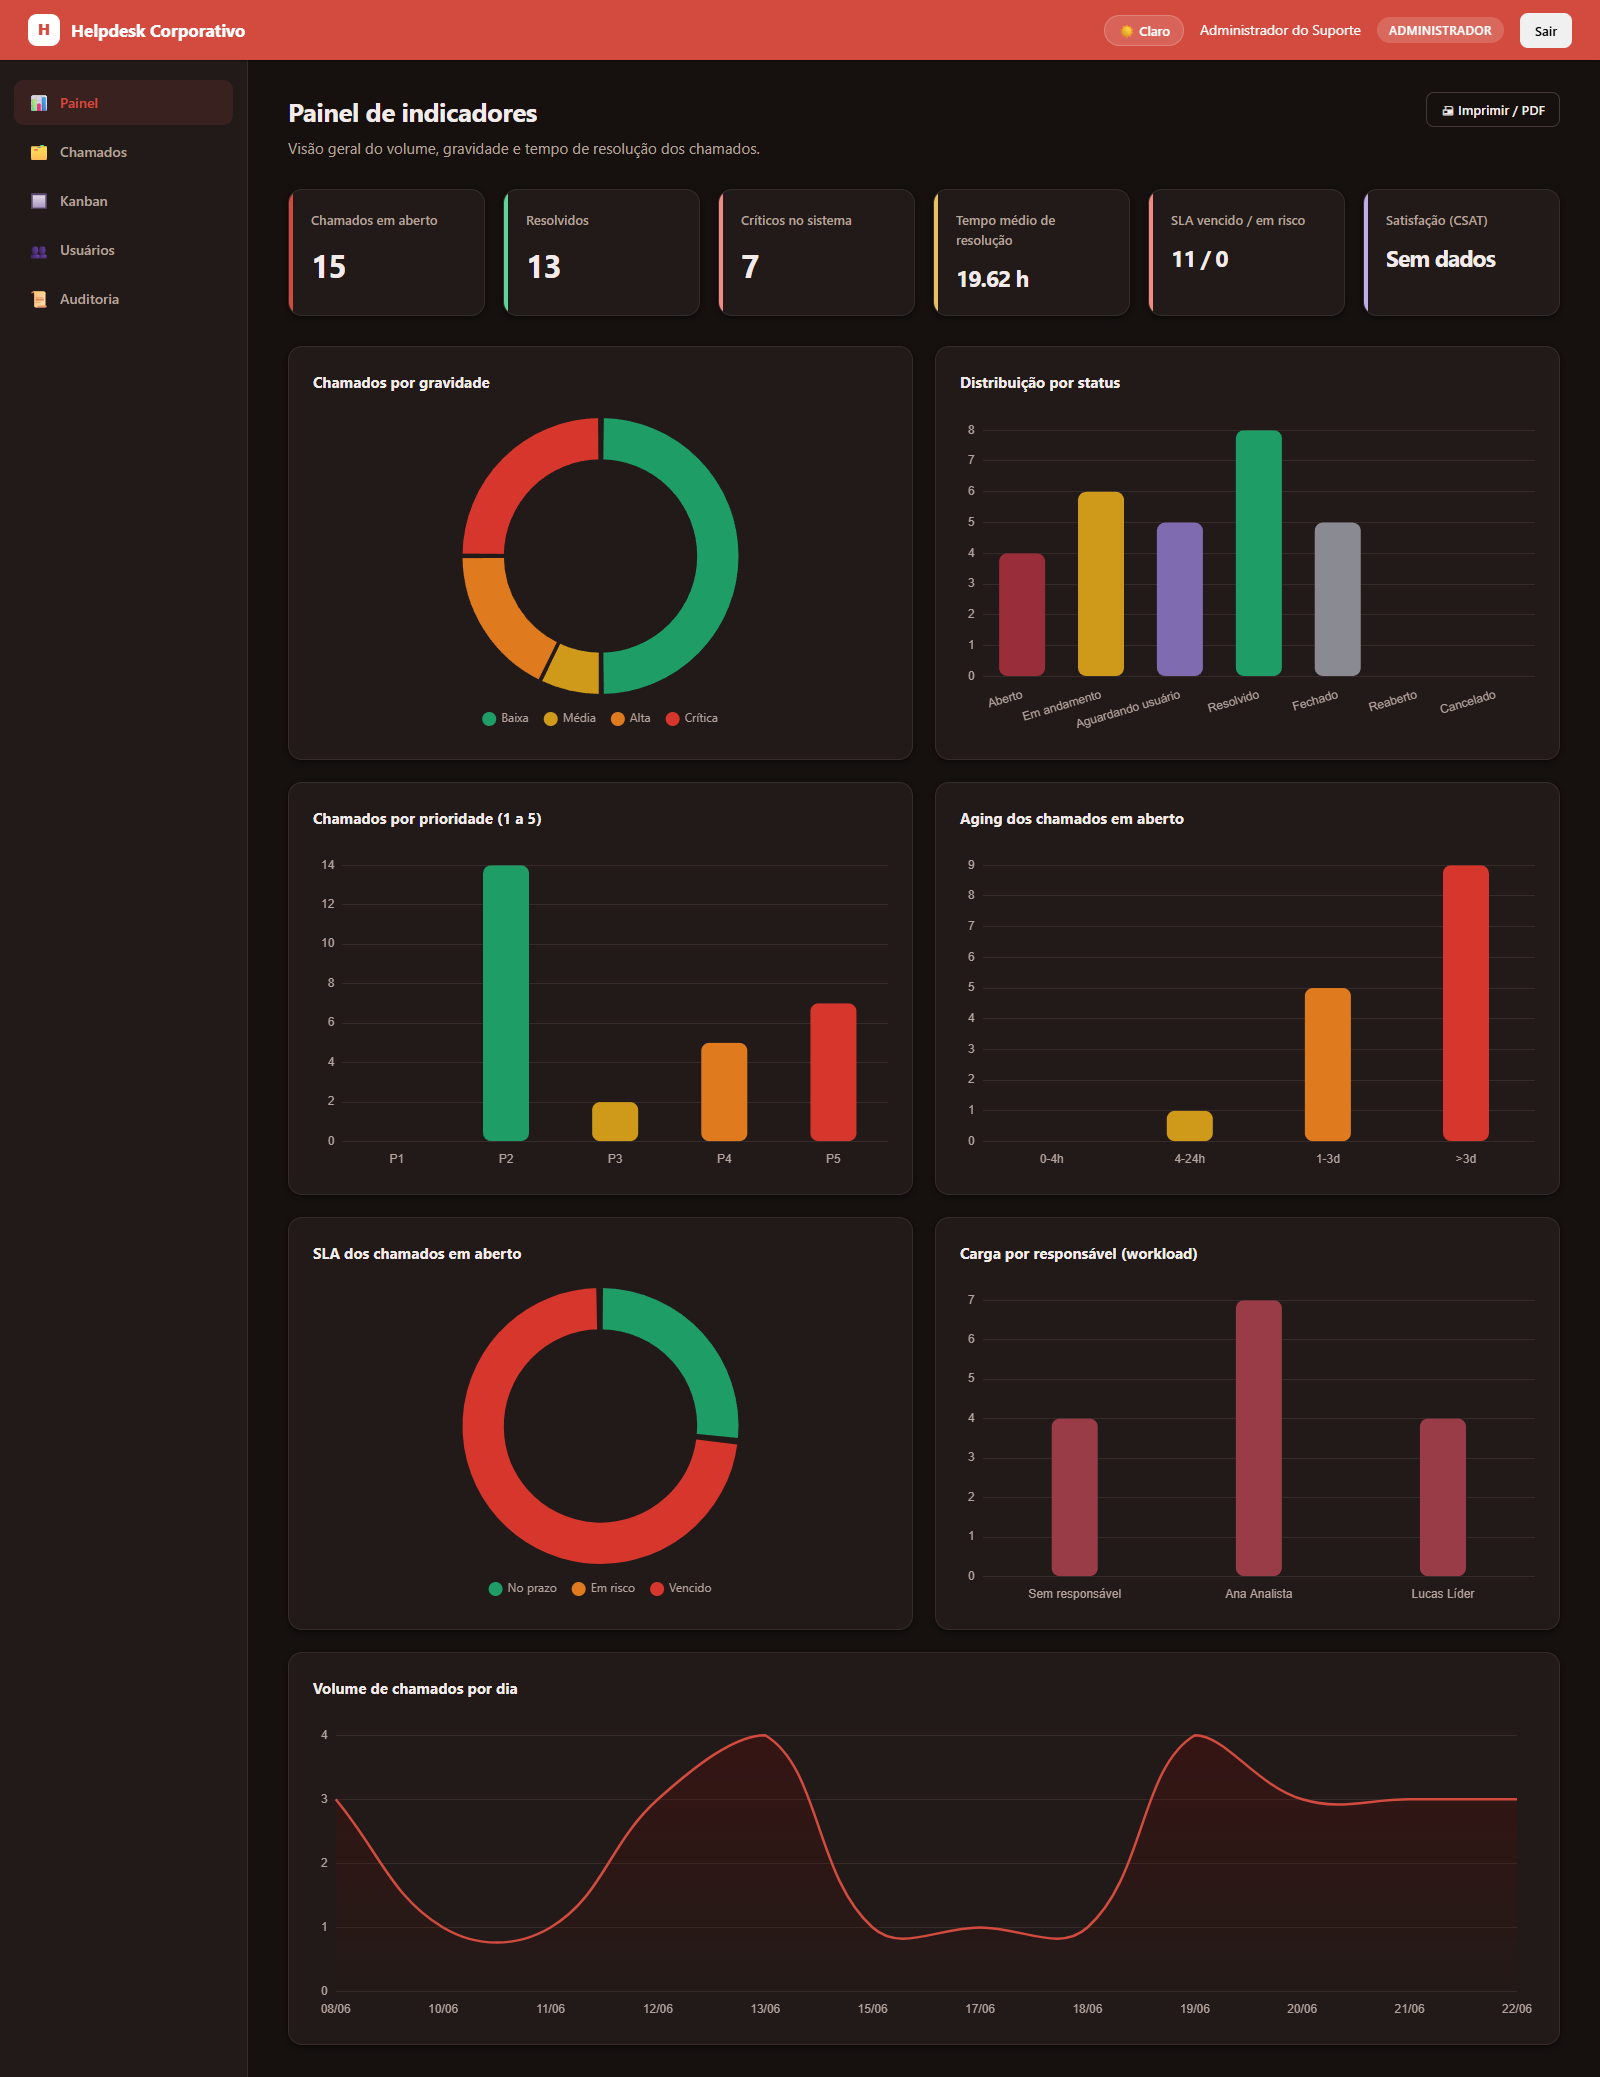
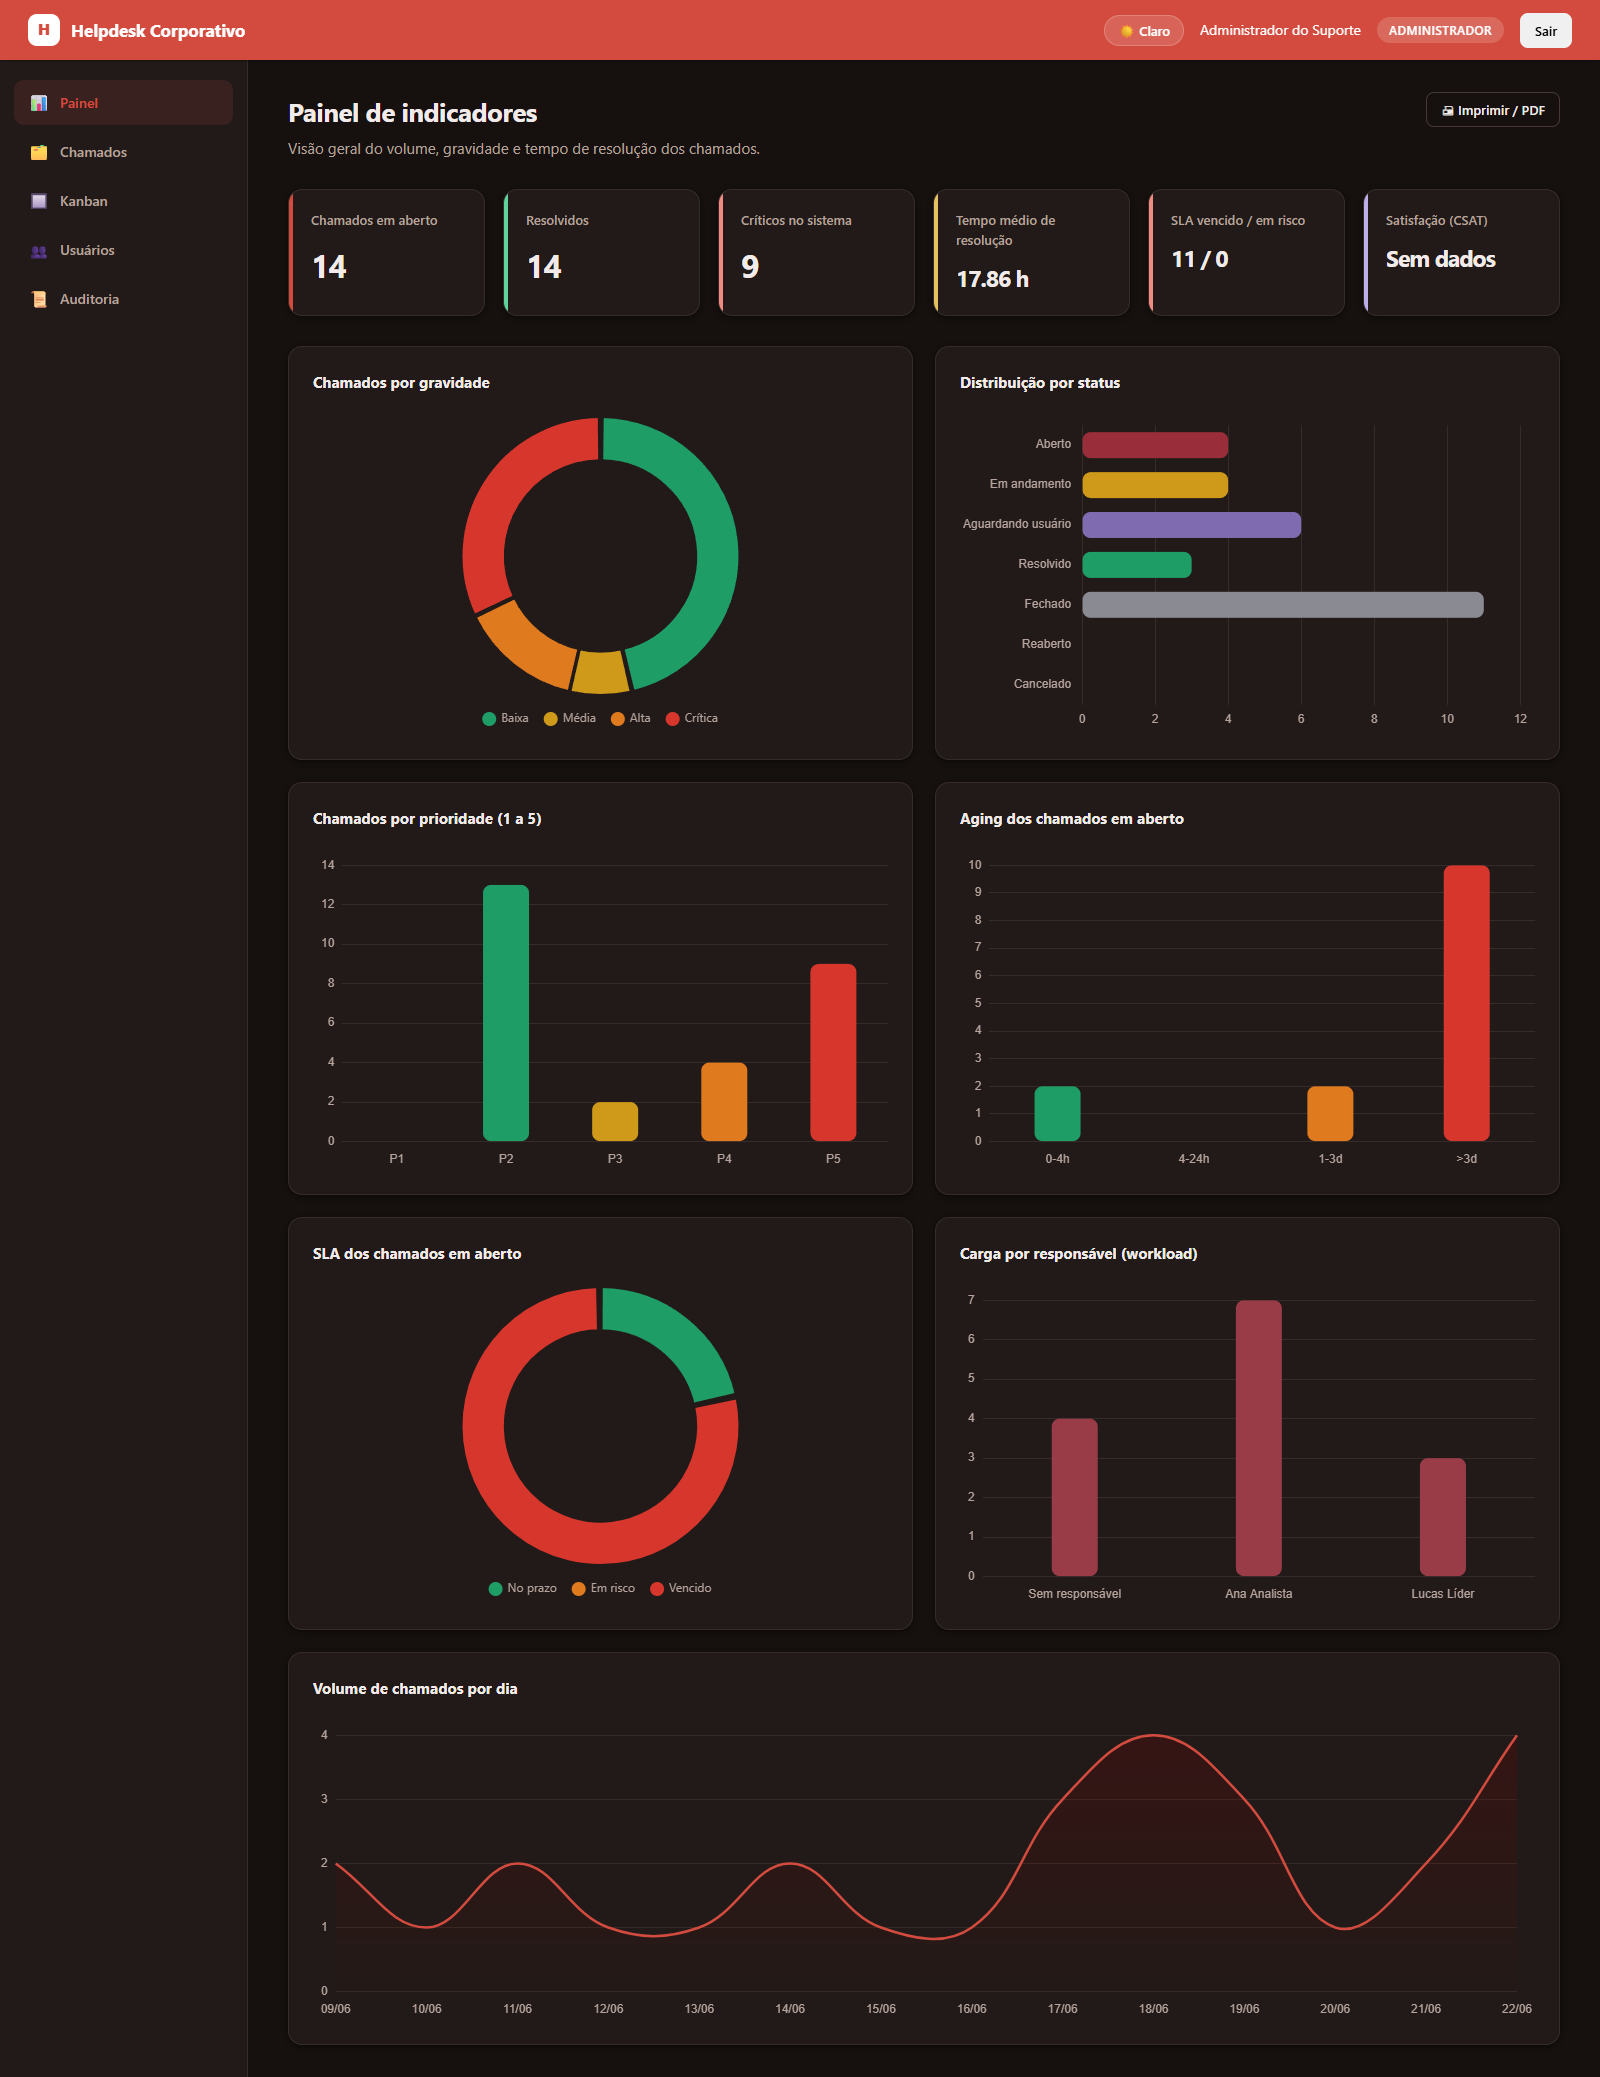
feat: update app.js version and enhance chart tooltip functionality

diff --git a/frontend/static/js/app.js b/frontend/static/js/app.js
@@ -1040,22 +1040,43 @@
                 legend: { labels: { color: t.texto, font: { family: 'Segoe UI', size: 12 }, usePointStyle: true, pointStyle: 'circle', padding: 16 } },
                 tooltip: {
                     backgroundColor: t.card, titleColor: t.texto, bodyColor: t.texto,
-                    borderColor: t.grid, borderWidth: 1, padding: 10, cornerRadius: 8, displayColors: true,
-                    titleFont: { family: 'Segoe UI' }, bodyFont: { family: 'Segoe UI' },
+                    borderColor: t.grid, borderWidth: 1, cornerRadius: 10,
+                    padding: { top: 10, bottom: 10, left: 14, right: 14 },
+                    displayColors: false,          // sem o quadradinho de cor (declutter)
+                    caretPadding: 8, caretSize: 7,  // afasta o balão da barra
+                    yAlign: 'bottom',               // sempre acima do ponto, não sobrepondo
+                    titleFont: { family: 'Segoe UI', weight: '700', size: 13 },
+                    bodyFont: { family: 'Segoe UI', size: 13 },
+                    callbacks: {
+                        // Texto claro no balão: "N chamado(s)" em vez de um número solto.
+                        label: (ctx) => {
+                            const v = (ctx.parsed && typeof ctx.parsed === 'object')
+                                ? ctx.parsed.y : ctx.parsed;
+                            return `${v} ${v === 1 ? 'chamado' : 'chamados'}`;
+                        },
+                    },
                 },
             },
         };
     }
-    function opcoesBarra() {
+    function opcoesBarra(horizontal) {
         const t = tema();
+        const base = opcoesBase();
+        const eixoValor = {
+            beginAtZero: true, grid: { color: t.grid, drawTicks: false },
+            border: { display: false }, ticks: { color: t.texto, precision: 0, padding: 8 },
+        };
+        const eixoCategoria = {
+            grid: { display: false }, border: { display: false },
+            ticks: { color: t.texto, font: { size: 12 }, autoSkip: false },
+        };
         return {
-            ...opcoesBase(),
-            plugins: { ...opcoesBase().plugins, legend: { display: false } },
-            scales: {
-                x: { grid: { display: false }, border: { display: false }, ticks: { color: t.texto, font: { size: 12 } } },
-                y: { beginAtZero: true, grid: { color: t.grid, drawTicks: false }, border: { display: false },
-                     ticks: { color: t.texto, precision: 0, padding: 8 } },
-            },
+            ...base,
+            indexAxis: horizontal ? 'y' : 'x',
+            plugins: { ...base.plugins, legend: { display: false } },
+            scales: horizontal
+                ? { x: eixoValor, y: eixoCategoria }
+                : { x: eixoCategoria, y: eixoValor },
         };
     }
 
@@ -1075,7 +1096,7 @@
         desenharDoughnut('gravidade', 'g-gravidade', gl, gl.map(l => d.por_gravidade[l] || 0), gl.map(l => COR.gravidade[l]));
         const stKeys = Object.keys(d.por_status);
         desenharBarra('status', 'g-status', stKeys.map(k => ROTULO_STATUS[k] || k),
-            stKeys.map(k => d.por_status[k]), stKeys.map(k => COR.status[k] || '#9a2d3a'));
+            stKeys.map(k => d.por_status[k]), stKeys.map(k => COR.status[k] || '#9a2d3a'), true);
         desenharBarra('prioridade', 'g-prioridade', ['P1', 'P2', 'P3', 'P4', 'P5'],
             ['1', '2', '3', '4', '5'].map(p => d.por_prioridade[p] || 0), COR.prioridade);
         desenharBarra('aging', 'g-aging', ['0-4h', '4-24h', '1-3d', '>3d'],
@@ -1098,13 +1119,13 @@
                 plugins: { ...opcoesBase().plugins, legend: { ...opcoesBase().plugins.legend, position: 'bottom' } } },
         });
     }
-    function desenharBarra(chave, canvasId, labels, dados, cor) {
+    function desenharBarra(chave, canvasId, labels, dados, cor, horizontal) {
         destruir(chave);
         graficos[chave] = new Chart(document.getElementById(canvasId), {
             type: 'bar',
             data: { labels, datasets: [{ data: dados, backgroundColor: cor,
-                borderRadius: 8, maxBarThickness: 46, borderSkipped: false }] },
-            options: opcoesBarra(),
+                borderRadius: 8, maxBarThickness: horizontal ? 26 : 46, borderSkipped: false }] },
+            options: opcoesBarra(horizontal),
         });
     }
     function desenharVolume(volume) {

diff --git a/frontend/templates/app.html b/frontend/templates/app.html
@@ -401,6 +401,6 @@
     </div>
 
     <script src="/static/js/api.js?v=6"></script>
-    <script src="/static/js/app.js?v=6"></script>
+    <script src="/static/js/app.js?v=9"></script>
 </body>
 </html>